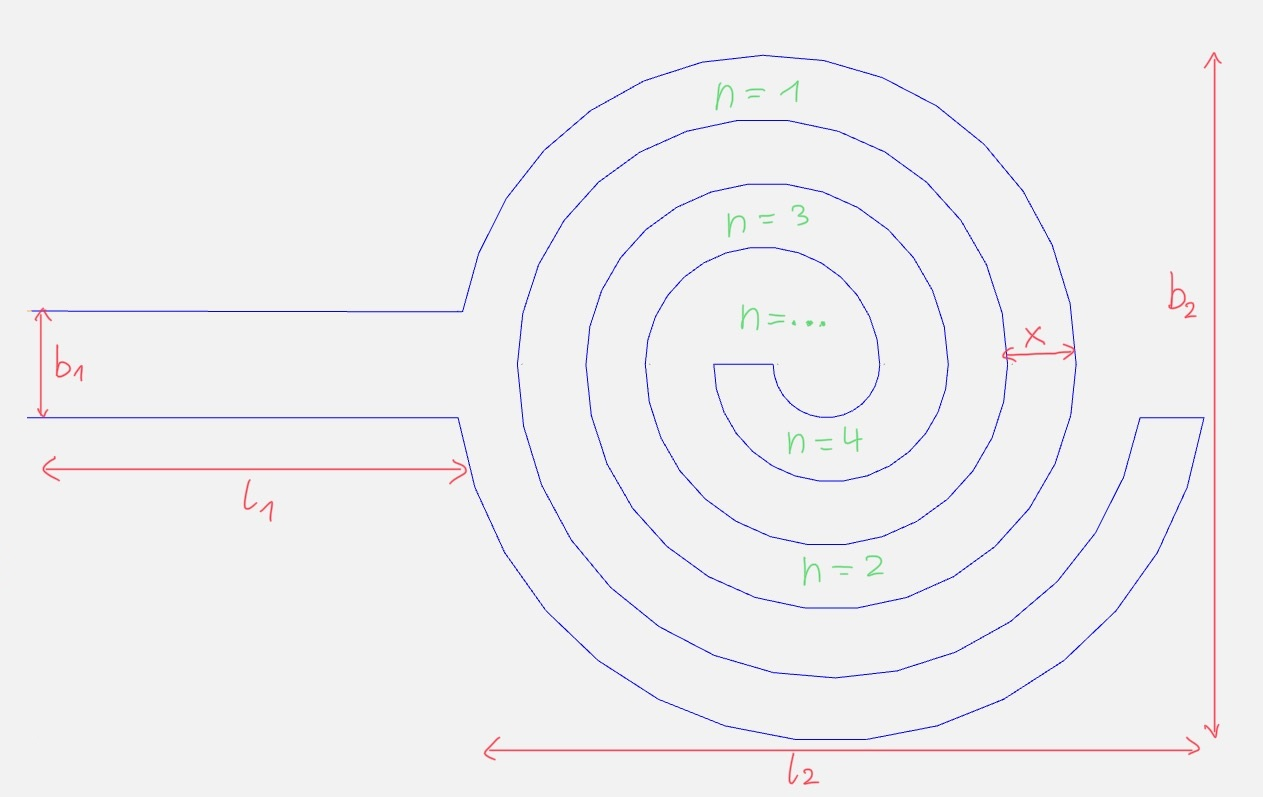
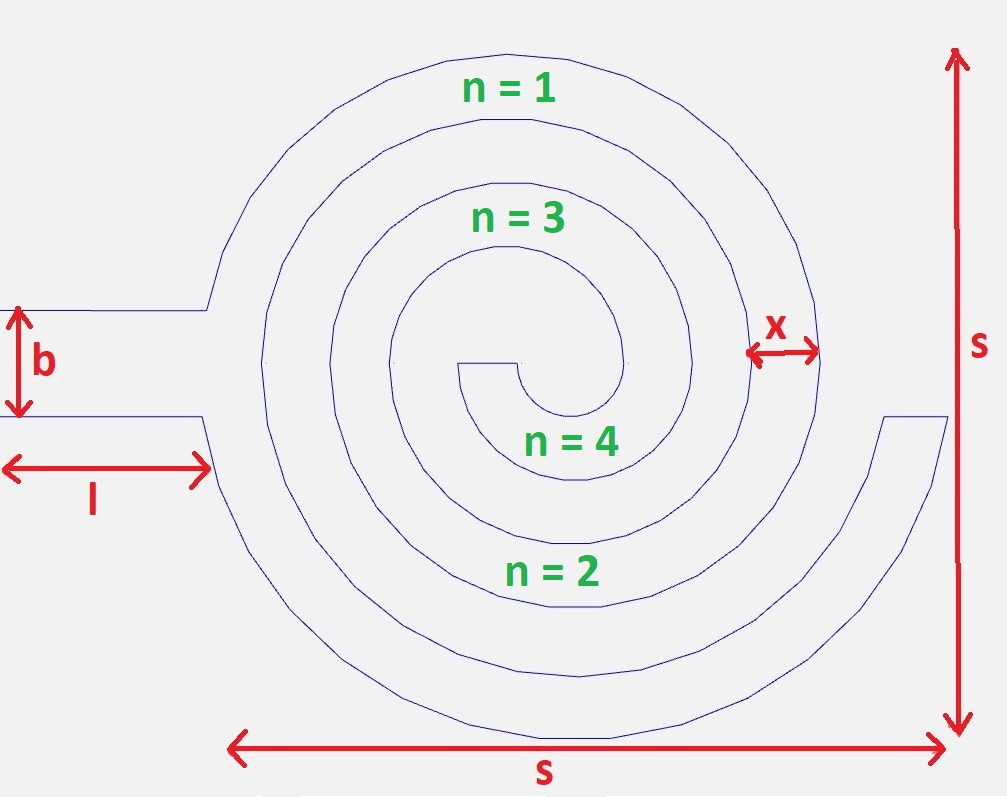
Cleaned up pattern 4 and changed its image

diff --git a/patterns/pattern4/pattern.py b/patterns/pattern4/pattern.py
@@ -1,51 +1,40 @@
 # id=Spiral
 # author=Nicolai
-# params=l1,l2,b1,b2,x,n
-
-import numpy as np
-import math
-from logger import log
+# params=l,b,s,x,n
 
 from patterns.pattern_parent import PatternParent
 
 
 class Pattern(PatternParent):
     def gcode(self):
-        l1 = self.l1 = self.values["l1"]
-        l2 = self.l2 = self.values["l2"]
-        b1 = self.b1 = self.values["b1"]
-        b2 = self.b2 = self.values["b2"]
-        x = self.x = self.values["x"]
-        n = self.n = int(self.values["n"])
+        l = self.values["l"]
+        b = self.values["b"]
+        s = self.values["s"]
+        x = self.values["x"]
+        n = int(self.values["n"])
 
         self.reset()
         # Move to start point
         self.moveTo()
-        self.moveTo(y=self.b2/2 - self.b1/2)
+        self.moveTo(y=s/2 - b/2)
         self.drawPlatformStart()
-        self.printTo(x=self.l1)
+        self.printTo(x=l)
 
-        self.counterClockArc(x=l1+l2, y=b2/2, i=l2/2, j=b1/2, arcDegrees=180)
+        self.counterClockArc(x=l+s, y=s/2, i=s/2, j=b/2, arcDegrees=180)
         self.printTo(x=self.currentX-x)
-        self.clockArc(x=l1+x, y=b2/2, i=(l2-2*x)/-2, arcDegrees=180)
+        self.clockArc(x=l+x, y=s/2, i=(s-2*x)/-2, arcDegrees=180)
         
 
-        top = l1+l2-2*x
-
+        top = l+s-2*x
         j = 0
 
-    #    log("\nNEW DRAWING PROCESS =======================================\n")
-
         for i in range(0, n):
-    #        log("Forwards i: " + str(i))
             widthCount = i+1 if i+1 >= 0 else 0
             if i % 2 == 0:
                 posX = top-(widthCount*x)
-    #            log("PosX: " + str(posX))
                 self.clockArc(x=posX, y=self.currentY, i=abs(posX-self.currentX)/2, j=j, arcDegrees=180)
             else:
-                posX = l1+((widthCount+1)*x)
-    #            log("PosX: " + str(posX))
+                posX = l+((widthCount+1)*x)
                 self.clockArc(x=posX, y=self.currentY, i=abs(posX-self.currentX)/-2, j=j, arcDegrees=180)
 
         if n % 2 == 0:
@@ -54,19 +43,16 @@ class Pattern(PatternParent):
             self.printTo(x=self.currentX+x)
 
         for i in range(n, 0, -1):
-    #        log("Backwards i: " + str(i))
             widthCount = i-2 if i-2 >= 0 else 0
             if i % 2 == 0:
                 posX = top-(widthCount*x)
-    #            log("PosX: " + str(posX))
                 self.counterClockArc(x=posX, y=self.currentY, i=abs(posX-self.currentX)/2, j=j, arcDegrees=180)
             else:
                 if i==1: widthCount -= 1
-                posX = l1+((widthCount+1)*x)
-    #            log("PosX: " + str(posX))
+                posX = l+((widthCount+1)*x)
 
                 if i==1:
-                    self.counterClockArc(x=posX, y=b2/2+b1/2, i=abs(posX-self.currentX)/-2, j=j, arcDegrees=180)
+                    self.counterClockArc(x=posX, y=s/2+b/2, i=abs(posX-self.currentX)/-2, j=j, arcDegrees=180)
                 else:
                     self.counterClockArc(x=posX, y=self.currentY, i=abs(posX-self.currentX)/-2, j=j, arcDegrees=180)
 
